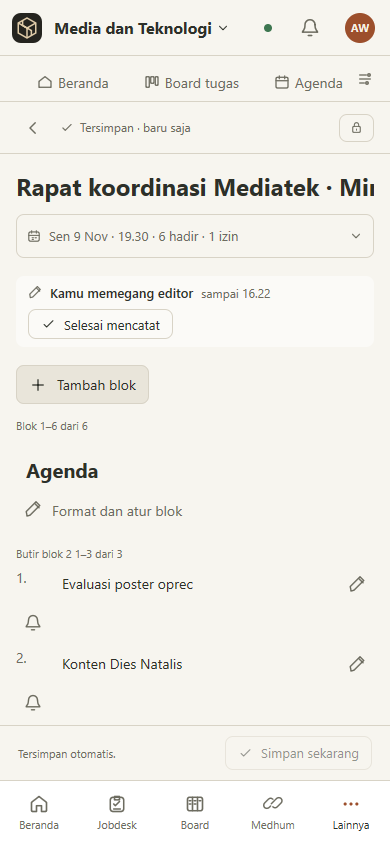
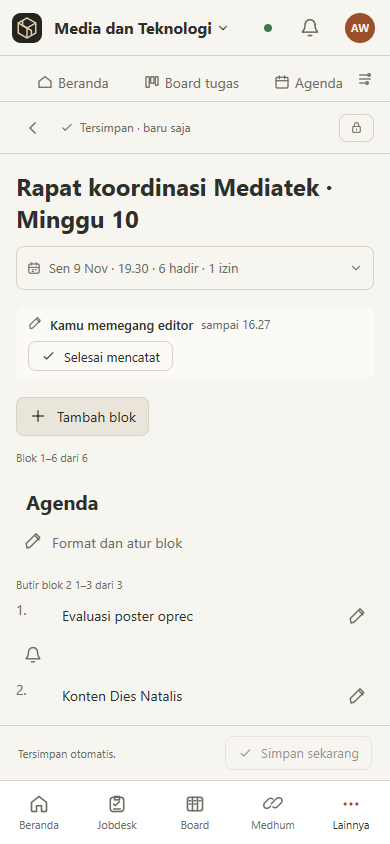
Catatan C2: judul panjang membungkus, tidak dipotong
Judul notulis kini text area tanpa bingkai setinggi teksnya (1–6 baris)
sehingga judul panjang membungkus di HP dan desktop; Enter tidak menambah
baris dan baris baru hasil tempel disimpan sebagai spasi. Judul pembaca
diberi label yang sama. Test mengukur tinggi judul di 390 dan 1440 px;
screenshot judul panjang HP dan desktop ditambahkan.

diff --git a/internal/appui/notes_c2_test.go b/internal/appui/notes_c2_test.go
@@ -9,6 +9,7 @@ import (
 	"testing"
 	"time"
 
+	"github.com/egoist/mygo/ui"
 	"github.com/himasifunej/himasif-space/internal/api"
 	"github.com/himasifunej/himasif-space/internal/client"
 	"github.com/himasifunej/himasif-space/internal/id"
@@ -454,8 +455,55 @@ func TestNotesC2NativeCapture(t *testing.T) {
 			shoot(h, "catatan-c2-hp")
 			h.app.notes.propsOpen = true
 			shoot(h, "catatan-c2-hp-properti")
+			h.app.notes.propsOpen = false
+			long := "Rapat koordinasi Mediatek · Minggu 10 · evaluasi poster oprec, konten Dies Natalis dan piket Bot WhatsApp"
+			h.app.notes.title, h.app.notes.note.Title = long, long
+			shoot(h, "catatan-c2-hp-judul-panjang")
+			h.tt.SetSize(1440, 900)
+			shoot(h, "catatan-c2-desktop-judul-panjang")
 			continue
 		}
 		shoot(h, "catatan-c2-desktop-pembaca")
+	}
+}
+
+// A long title wraps to more lines instead of being cut, for the notulis
+// (a text area as high as its text) and for readers, on a phone and on a
+// desktop; Enter adds no line break and a pasted one is saved as a space.
+func TestNoteTitleWrapsInsteadOfCut(t *testing.T) {
+	long := "Rapat koordinasi Mediatek · Minggu 10 · evaluasi poster oprec, konten Dies Natalis dan piket Bot WhatsApp"
+	for _, editing := range []bool{true, false} {
+		h, _ := c2Harness(t, editing)
+		h.app.notes.title = long
+		h.app.notes.note.Title = long
+		h.app.router.Push(PathSpaces)
+		h.app.chrome.tab = "Catatan"
+		for _, size := range []struct{ w, h, lines int }{{390, 844, 3}, {1440, 900, 2}} {
+			h.tt.SetSize(size.w, size.h)
+			h.tt.Frame()
+			name := "Judul catatan"
+			r, ok := h.tt.Find(name)
+			if !ok {
+				t.Fatalf("editing %v, %dpx: title not found", editing, size.w)
+			}
+			font := float32(30)
+			if size.w < mobileMaxWidth {
+				font = 24
+			}
+			if r.H < font*float32(size.lines) || r.X+r.W > float32(size.w) {
+				t.Fatalf("editing %v, %dpx: title %+v is not wrapped to %d lines within the window", editing, size.w, r, size.lines)
+			}
+		}
+		if editing {
+			h.click("Judul catatan")
+			h.tt.Key(0, ui.KeyEnter)
+			h.tt.Frame()
+			if h.app.notes.title != long {
+				t.Fatalf("Enter changed the title: %q", h.app.notes.title)
+			}
+		}
+	}
+	if got := noteTitleText(" Rapat\nkoordinasi\r\nMinggu 10 "); got != "Rapat koordinasi Minggu 10" {
+		t.Fatalf("noteTitleText = %q", got)
 	}
 }

diff --git a/internal/appui/notes_layout.go b/internal/appui/notes_layout.go
@@ -288,13 +288,17 @@ func (a *App) noteTitleView(c *ui.Context, phone bool) {
 		size = 24
 	}
 	if a.notesCanEdit() {
-		in := ui.TextInput(c.Key("note-title"), &a.notes.title).Label("Judul catatan").Placeholder("Tanpa judul").FillWidth().FontSize(size).Bold().Background(ui.RGBA(0, 0, 0, 0)).BorderWidth(0).Padding(0)
+		// A text area as high as the wrapped title (1 to 6 lines), so a long
+		// title wraps on a phone instead of being cut. Enter adds no line:
+		// a title is one paragraph.
+		in := ui.TextAreaBase(c.Key("note-title"), &a.notes.title).Lines(1, 6).Label("Judul catatan").Placeholder("Tanpa judul").FillWidth().MinWidth(0).FontSize(size).Bold().
+			OnTextKey(func(k ui.TextKey) bool { return k.Key == ui.KeyEnter })
 		if in.Changed() {
 			a.markNoteChanged()
 		}
 		return
 	}
-	ui.Text(c, a.notes.title).FontSize(size).Bold().FillWidth().MinWidth(0).Selectable()
+	ui.Text(c.Key("note-title-text"), a.notes.title).Label("Judul catatan").FontSize(size).Bold().FillWidth().MinWidth(0).Selectable()
 }
 
 // noteProperties lists the meeting's facts under the title. Desktop: a
@@ -433,4 +437,10 @@ func groupNoteHistory(events []api.NoteEvent) []noteHistoryEntry {
 		out = append(out, noteHistoryEntry{NoteEvent: e, count: 1, first: e.CreatedAt})
 	}
 	return out
+}
+
+// noteTitleText is the title as saved: one line (a pasted line break
+// becomes a space), trimmed.
+func noteTitleText(s string) string {
+	return strings.TrimSpace(strings.Join(strings.FieldsFunc(s, func(r rune) bool { return r == '\n' || r == '\r' }), " "))
 }

diff --git a/internal/appui/notes_controller.go b/internal/appui/notes_controller.go
@@ -573,7 +573,7 @@ func (a *App) commitNote(auto bool) {
 		}
 	}
 	nid, revision := a.notes.selected, a.notes.revision
-	title, content := strings.TrimSpace(a.notes.title), a.notes.editor.Content()
+	title, content := noteTitleText(a.notes.title), a.notes.editor.Content()
 	if title == "" || utf8.RuneCountInString(title) > 200 {
 		fail("Isi judul note, maksimal 200 karakter.")
 		return

diff --git a/docs/handoff/catatan-rapat-c2-hasil.md b/docs/handoff/catatan-rapat-c2-hasil.md
@@ -5,7 +5,7 @@ Branch `feat/catatan-c2` dari `origin/main` 8c63805 (0.3.3, berisi C1 dan A2). D
 ## Yang dibangun
 - **Bilah dokumen** (desktop): remah **Rapat › judul** (Rapat membuka rapat terkait di Agenda; catatan tanpa rapat: **Catatan › judul**), label **Notulen** (template rapat) / Jadwal, status simpan, avatar orang yang sedang mencatat, chip **Hanya divisi ini** (tampilan saja, tooltip "Pengaturan berbagi menyusul"; C6), tutup.
   - Status: pembaca "Diedit baru saja / 12 menit lalu / pukul 19.42 / kemarin 19.42 / 9 Nov 19.42"; 10 detik setelah versi baru tiba "Diperbarui 19.42 oleh Sinta". Notulis "Menyimpan otomatis…" → "Menyimpan…" → "Tersimpan · baru saja"; gagal "Belum tersimpan — coba lagi" + tombol **Coba simpan lagi**.
-- **Judul besar** 30 px (HP 24 px): input tanpa bingkai untuk notulis, teks untuk pembaca.
+- **Judul besar** 30 px (HP 24 px), **membungkus ke beberapa baris** di desktop dan HP: untuk notulis text area tanpa bingkai setinggi teksnya (1–6 baris, Enter tidak menambah baris, baris baru hasil tempel disimpan sebagai spasi), untuk pembaca teks biasa. Remah di bilah dokumen sengaja tetap satu baris.
 - **Properti rapat** dari `Meeting` (daftar rapat Agenda yang sudah dimuat, tanpa endpoint baru): **Tanggal** "Senin, 9 Nov 2026 · 19.30–20.45" (zona waktu rapat), **Tempat** (lokasi, "+ rapat daring" bila ada tautan), **Kehadiran** dari `Meeting.Participants` (avatar + nama depan; izin/tidak hadir/belum dicatat pudar dengan alasan) + ringkasan "6 hadir · 1 izin". Catatan tanpa rapat: **Dibuat** tanggal + pembuat. Rapat yang tidak bisa diakses: "Data rapat tidak tersedia untuk akunmu."
 - **Kolom dokumen 720 px** di tengah; semua bagian lama (blok, draf pemulihan, komentar, lampiran, template, riwayat, hapus) ikut di kolom itu.
 - **Kunci editor tetap** (satu penyunting, Ambil alih dengan konfirmasi), kini satu strip ramping di bawah properti: "Kamu memegang editor · sampai 16.22 · Selesai mencatat" / "Sinta Notulis sedang mencatat · sampai … · Ambil alih editor". **Paging blok 8/halaman tetap.**
@@ -22,15 +22,14 @@ Branch `feat/catatan-c2` dari `origin/main` 8c63805 (0.3.3, berisi C1 dan A2). D
 
 ## Belum (sesuai lingkup)
 - Handle +/⠇, menu /, @, #tag (C3), timer (T1), privasi/Bagikan sungguhan (C6), avatar banyak pembaca (butuh presence).
-- Judul panjang di HP terpotong satu baris saat disunting (TextInput satu baris); pembaca melihatnya terbungkus.
 
 ## Berkas
 - `internal/appui/notes_layout.go` (baru): bilah dokumen, judul, properti rapat, kehadiran, status simpan, waktu relatif, `groupNoteHistory`.
 - `internal/appui/notes_controller.go`: `commitNote`, `noteAutosaveDue/Active`, `noteSaveFailed`, `finishNoteEditing` menunggu simpan, guard versi lama/simpan berjalan di `loadNoteDetail`, state autosave.
 - `internal/appui/notes_view.go`: HP daftar/isi, kolom 720, strip kunci, bilah bawah autosave, riwayat tergabung.
 - `internal/appui/notes_document.go`: `Replace`.
-- `internal/appui/notes_c2_test.go` (baru): autosave setelah jeda dan editor tetap sama, batas 30 detik, ketikan selama simpan, konflik → tinjauan, galat → coba lagi, pembaca tanpa lompat + "Diperbarui … oleh Sinta", penggabungan riwayat, waktu relatif, tata letak desktop/HP (lipat, buka, kembali), bilah notulis dan catatan tanpa rapat, screenshot.
-- Screenshot (renderer native, tema terang, data dummy) di `docs/screenshots/`: `catatan-c2-desktop-notulis.png`, `catatan-c2-desktop-pembaca.png`, `catatan-c2-hp.png`, `catatan-c2-hp-properti.png`. Dibuat ulang dengan `SPACE_UI_CAPTURE_DIR=<dir> go test ./internal/appui -run TestNotesC2NativeCapture`.
+- `internal/appui/notes_c2_test.go` (baru): autosave setelah jeda dan editor tetap sama, batas 30 detik, ketikan selama simpan, konflik → tinjauan, galat → coba lagi, pembaca tanpa lompat + "Diperbarui … oleh Sinta", penggabungan riwayat, waktu relatif, tata letak desktop/HP (lipat, buka, kembali), judul panjang membungkus (notulis dan pembaca, 390 dan 1440 px, Enter tanpa baris baru), bilah notulis dan catatan tanpa rapat, screenshot.
+- Screenshot (renderer native, tema terang, data dummy) di `docs/screenshots/`: `catatan-c2-desktop-notulis.png`, `catatan-c2-desktop-pembaca.png`, `catatan-c2-hp.png`, `catatan-c2-hp-properti.png`, `catatan-c2-hp-judul-panjang.png`, `catatan-c2-desktop-judul-panjang.png`. Dibuat ulang dengan `SPACE_UI_CAPTURE_DIR=<dir> go test ./internal/appui -run TestNotesC2NativeCapture`.
 
 ## Hasil cek (Windows, go1.27.3)
 ```
